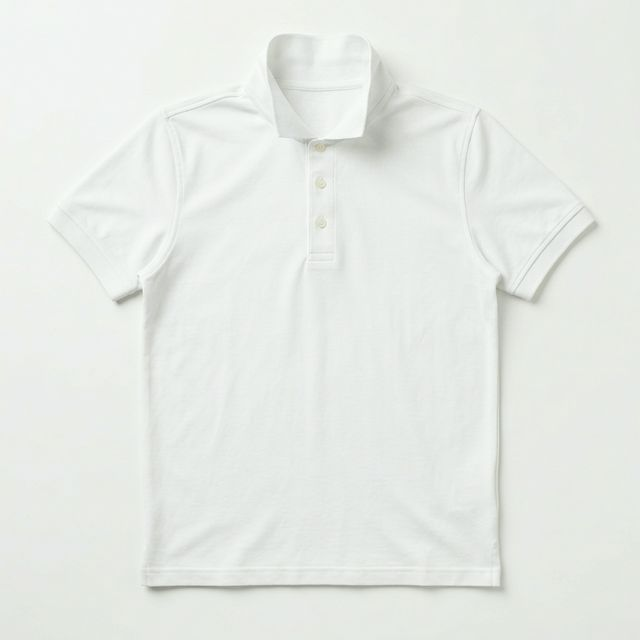
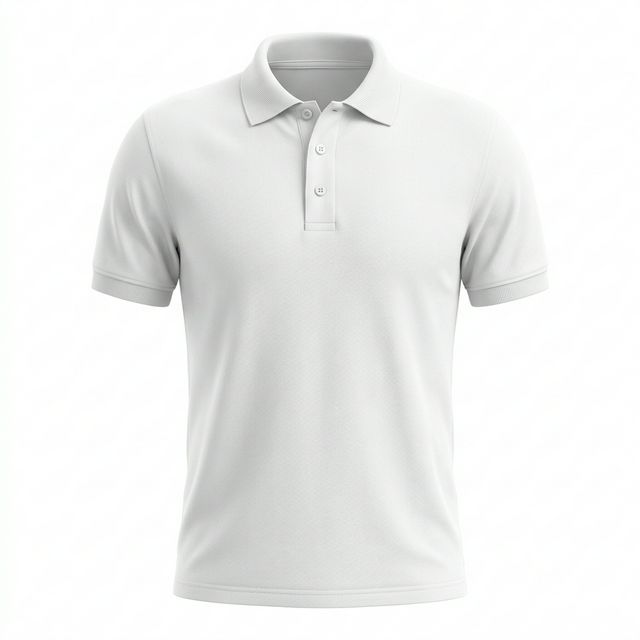
feat: 3D ghost mannequin mockups + white canvas background
- Replace flat-lay photos with 3D ghost mannequin style mockups
- Canvas background: transparent → white (hides photo edges)
- Added border-radius to canvas for cleaner look
- Both tshirt and polo now appear 3D/dimensional

diff --git a/src/app/globals.css b/src/app/globals.css
@@ -1395,8 +1395,9 @@ body {
   -webkit-user-select: none;
   user-select: none;
   touch-action: none;
-  background: transparent;
-  filter: drop-shadow(0 8px 32px rgba(0, 0, 0, 0.15));
+  background: #ffffff;
+  border-radius: 16px;
+  filter: drop-shadow(0 8px 32px rgba(0, 0, 0, 0.12));
   transition: transform 0.3s ease;
 }
 
